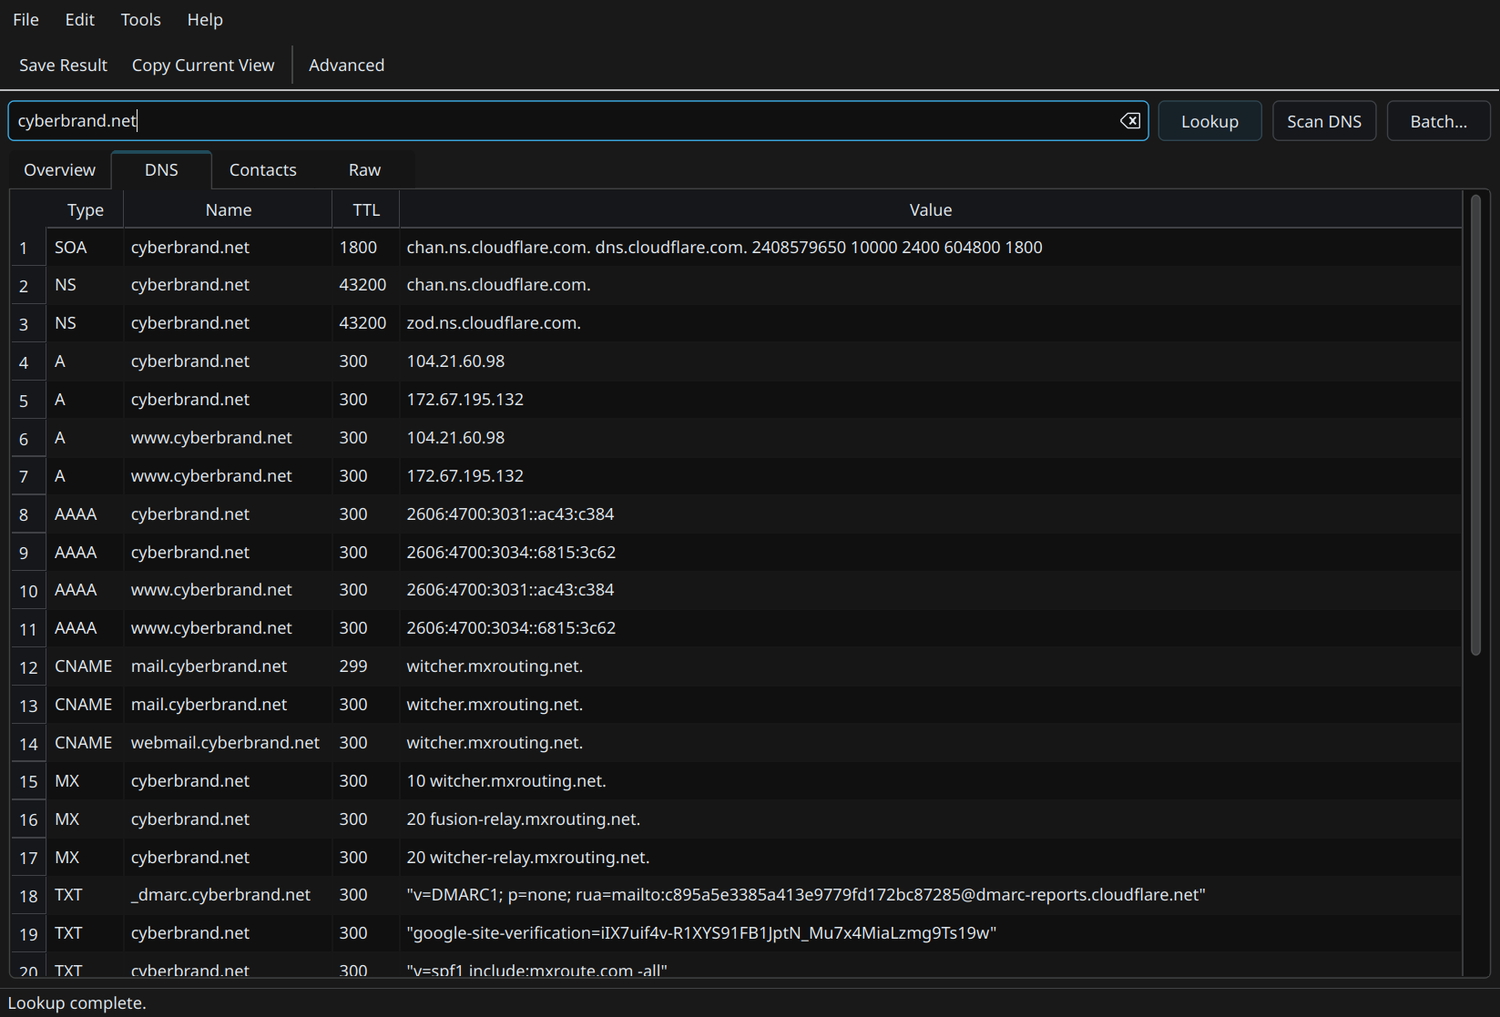
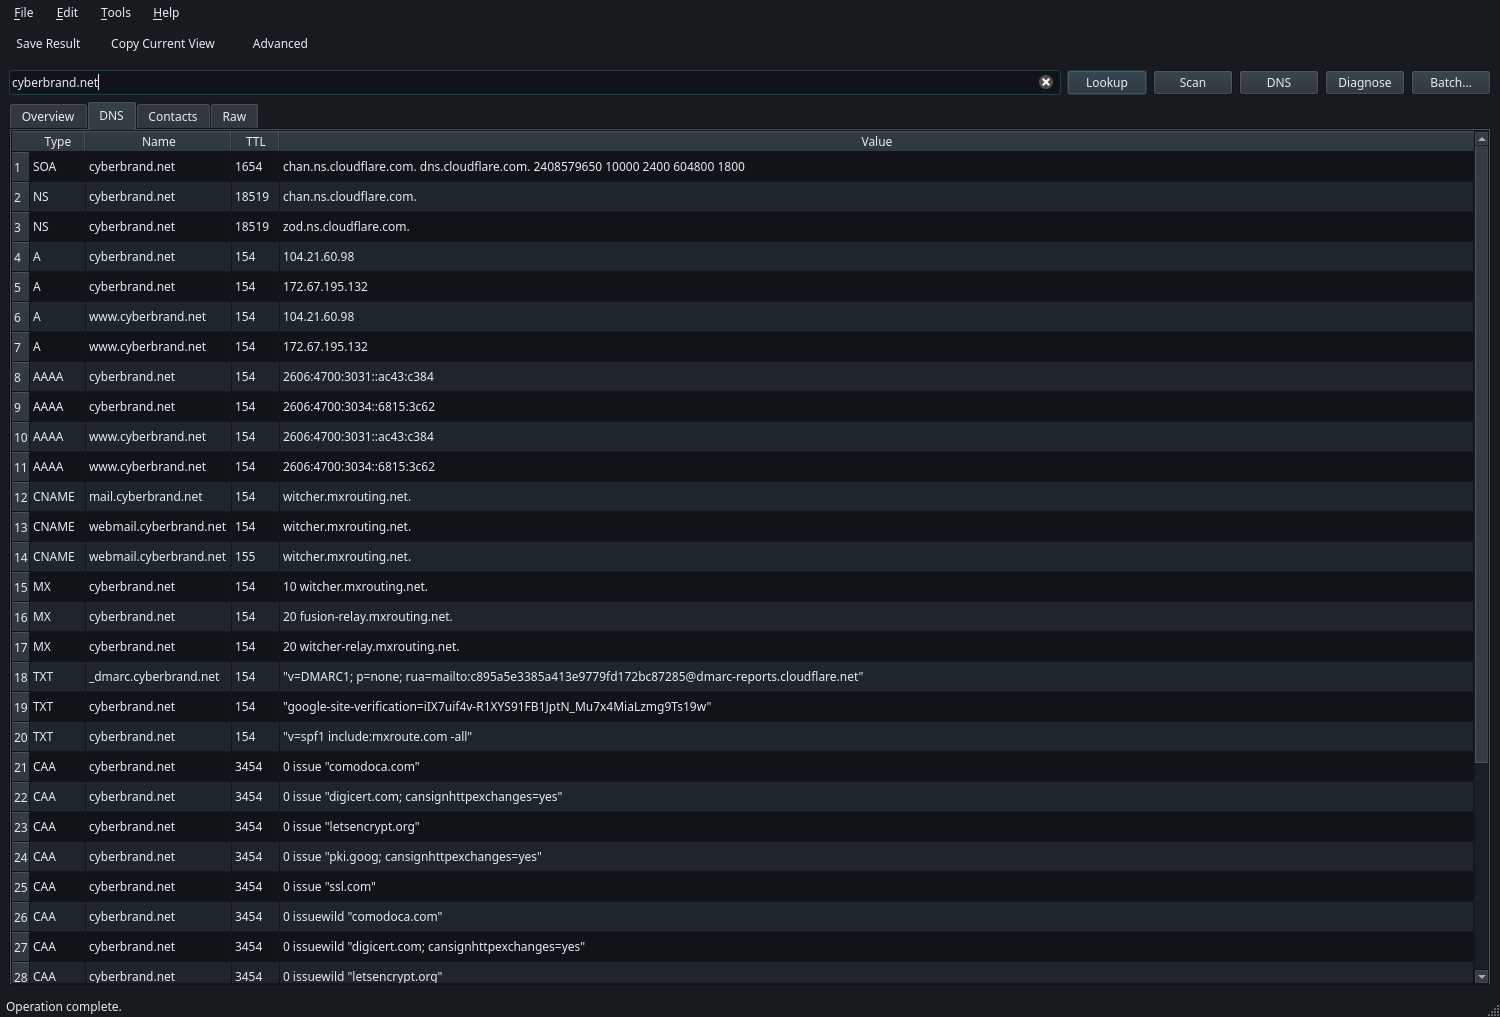
Showcase Whodis 1.0

Changed region(s): [[0.0, 0.0, 1.0, 1.0], [0.9507, 0.9449, 1.0, 0.9754]]

diff --git a/README.md b/README.md
@@ -25,12 +25,12 @@
   <a href="https://github.com/Alex9001/whodis/issues">Issues</a>
 </p>
 
-Classic `whois` gives you a protocol-era text dump. Whodis accepts a domain,
-IP address, network, or ASN, discovers the right RDAP, WHOIS, or RWhois
-authority, and organizes the answer into a responsive terminal dashboard. When
-you need more than ownership data, the same application can inventory DNS,
-compare resolvers, trace delegation, diagnose web and mail service, or export a
-stable machine-readable report.
+Classic `whois` gives you a protocol-era text dump. Whodis 1.0 accepts a
+domain, IP address, network, or ASN, discovers the right RDAP, WHOIS, or RWhois
+authority, and organizes the answer into a responsive terminal dashboard. It
+also grows into a full domain workstation when you need it: inventory DNS,
+compare resolvers, verify DNSSEC, trace delegation, diagnose web and mail
+service, or export a stable machine-readable report.
 
 ## Output made for humans—and scripts
 
@@ -57,13 +57,17 @@ stable machine-readable report.
 <table>
   <tr>
     <th width="50%">Public DNS inventory</th>
-    <th width="50%">Concurrent batch lookup</th>
+    <th width="50%">Domain diagnosis</th>
   </tr>
   <tr>
     <td><img src="docs/whodis-gui-dns.png" alt="Whodis DNS scan showing public records for cyberbrand.net"></td>
-    <td><img src="docs/whodis-gui-batch.png" alt="Whodis batch lookup showing four completed domain checks"></td>
+    <td><img src="docs/whodis-gui-diagnose.png" alt="Whodis diagnosis showing DNS, web, TLS, mail, and policy findings for cyberbrand.net"></td>
   </tr>
 </table>
+
+<p align="center"><strong>Concurrent batch lookup</strong> · Check and export many domains in one run</p>
+
+![Whodis batch lookup showing four completed domain checks](docs/whodis-gui-batch.png)
 
 The terminal dashboard rearranges the same normalized data into a wide mosaic
 or a narrow single-column view. Long registry notices are deduplicated and
